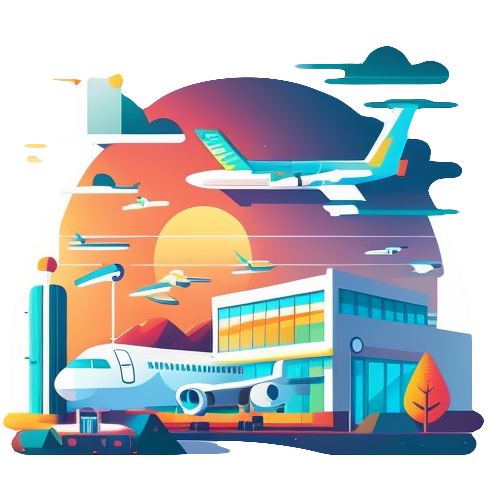
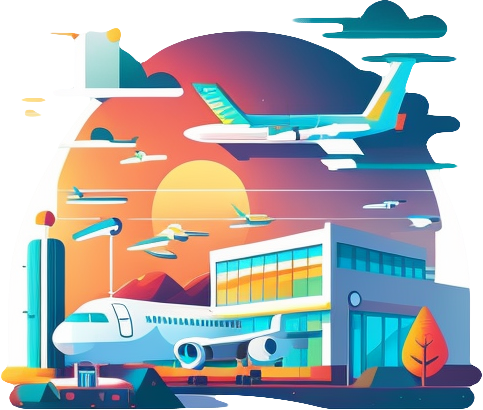
Updated onboarding screen layout to improve spacing on small screens.
Fixed bootstrap bug.
Upscaled onboarding illustrations.

diff --git a/lib/screens/onboarding_screen.dart b/lib/screens/onboarding_screen.dart
@@ -36,7 +36,7 @@ class OnboardingScreenCarousel extends StatelessWidget {
             Color(0xFFA5AEFF),
           ],
           title: 'Exotic Destinations',
-          description: 'Make use of your extra time by exploring new areas',
+          description: 'Make use of your extra time by exploring new areas.',
           index: 1,
         ),
         OnboardingScreen(
@@ -49,7 +49,7 @@ class OnboardingScreenCarousel extends StatelessWidget {
           ],
           title: 'Make new friends',
           description:
-              'Meet like-minded folks also looking for new connections and adventures',
+              'Meet like-minded folks also looking for new connections and adventures.',
           index: 2,
         ),
       ],
@@ -99,12 +99,15 @@ class OnboardingScreen extends StatelessWidget {
       child: Column(
         children: [
           Expanded(
-            flex: 4,
+            child: Center(
+              child: DotPageIndicator(numPages: 3, index: index),
+            ),
+          ),
+          const SizedBox(height: Insets.sm),
+          Expanded(
+            flex: 6,
             child: Column(
-              mainAxisAlignment: MainAxisAlignment.end,
               children: [
-                Center(child: DotPageIndicator(numPages: 3, index: index)),
-                const SizedBox(height: Insets.med),
                 Text(
                   title,
                   textAlign: TextAlign.center,
@@ -123,8 +126,8 @@ class OnboardingScreen extends StatelessWidget {
               ],
             ),
           ),
-          const SizedBox(height: Insets.xl * 1.5),
           Expanded(
+            flex: 2,
             child: index == 2
                 ? UnconstrainedBox(
                     constrainedAxis: Axis.horizontal,
@@ -132,7 +135,6 @@ class OnboardingScreen extends StatelessWidget {
                   )
                 : ContinueArrow(buttonGradientColors),
           ),
-          const SizedBox(height: Insets.xl),
         ],
       ),
     );
@@ -149,16 +151,31 @@ class OnboardingScreen extends StatelessWidget {
             children: [
               Column(
                 children: [
-                  Expanded(child: _buildGradientBlobs()),
-                  Expanded(child: _buildContent()),
+                  Flexible(flex: 5, child: _buildGradientBlobs()),
+                  const Spacer(flex: 4),
                 ],
               ),
-              Align(
-                alignment: const Alignment(0, -0.4),
-                child: Padding(
-                  padding: const EdgeInsets.symmetric(horizontal: Insets.xl),
-                  child: Image.asset(illustrationPath),
-                ),
+              Column(
+                children: [
+                  Expanded(
+                    flex: 11,
+                    child: Align(
+                      alignment: Alignment.bottomCenter,
+                      child: Padding(
+                        padding: const EdgeInsets.symmetric(
+                          horizontal: Insets.xl,
+                        ),
+                        child: Image.asset(illustrationPath),
+                      ),
+                    ),
+                  ),
+                  const SizedBox(height: Insets.med,),
+                  Expanded(
+                    flex: 8,
+                    child: _buildContent(),
+                  ),
+                  const SizedBox(height: Insets.lg),
+                ],
               ),
             ],
           ),

diff --git a/lib/models/trip_model.dart b/lib/models/trip_model.dart
@@ -3,32 +3,27 @@ import 'package:layover_party/data/trip/trip.dart';
 import 'package:layover_party/utils/easy_notifier.dart';
 
 class TripModel extends EasyNotifier {
+  late List<Trip> _trips;
+
   String _originCode = 'SFO';
   String _destinationCode = 'HAN';
   DateTime _departureDate = DateTime.now().add(const Duration(days: 1));
   DateTime _arrivalDate = DateTime.now().add(const Duration(days: 14));
 
   String get originCode => _originCode;
-
   set originCode(String value) => notify(() => _originCode = value);
 
   String get destinationCode => _destinationCode;
-
   set destinationCode(String value) => notify(() => _destinationCode = value);
 
   DateTime get departureDate => _departureDate;
-
   set departureDate(DateTime value) => notify(() => _departureDate = value);
 
   DateTime get arrivalDate => _arrivalDate;
-
   set arrivalDate(DateTime value) => notify(() => _arrivalDate = value);
 
-  late List<Trip> _trips;
-
   Iterable<Trip> get trips => List.from(_trips);
-
-  set trips(Iterable<Trip> trips) => notify(() => _trips = trips.toList());
+  set trips(Iterable<Trip> value) => notify(() => _trips = value.toList());
 
   Future<void> updateTrips(String authToken) async {
     trips = await GetTripsCommand.run(

diff --git a/lib/screens/trips_screen/airport_search_bar.dart b/lib/screens/trips_screen/airport_search_bar.dart
@@ -70,6 +70,8 @@ class _QuerySearchBarState extends State<QuerySearchBar>
           secondChild: SearchBarExpandedContent(
             collapseSearchBar: _collapse,
           ),
+          firstCurve: Curves.ease,
+          secondCurve: Curves.ease,
           sizeCurve: Curves.ease,
           duration: Timings.med,
           crossFadeState: _isExpanded

diff --git a/lib/bootstrapper.dart b/lib/bootstrapper.dart
@@ -8,7 +8,7 @@ class Bootstrapper {
   const Bootstrapper({required this.appModel, required this.tripModel});
 
   Future<void> run() async {
-    tripModel.updateTrips(appModel.user.authToken);
+    await tripModel.updateTrips(appModel.user.authToken);
     appModel.isInitialized = true;
   }
 }

diff --git a/README.md b/README.md
@@ -1,3 +1,6 @@
 # Layover Party
 
-Turn layovers into travel adventures! [Try it out online](https://www.layover.party) or check out the [Devpost](https://devpost.com/software/layover-party?ref_content=my-projects-tab&ref_feature=my_projects).
+Turn layovers into travel
+adventures! [Try it out online](https://www.layover.party) (best experienced on
+mobile) or check out
+the [Devpost](https://devpost.com/software/layover-party?ref_content=my-projects-tab&ref_feature=my_projects).
